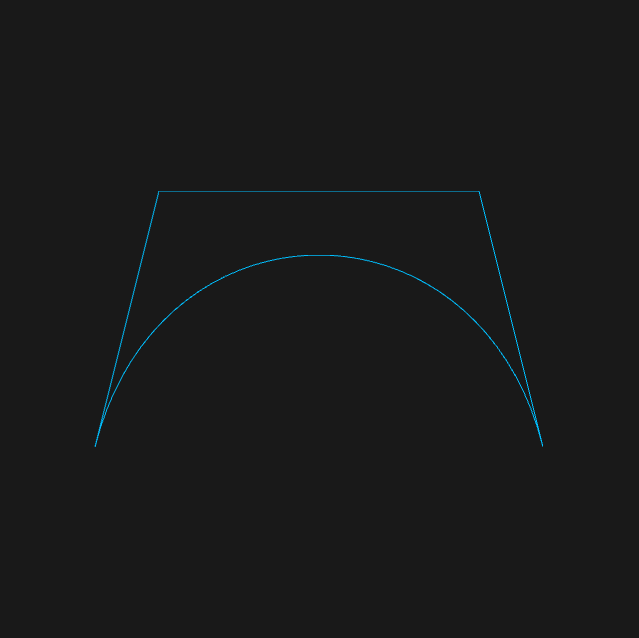
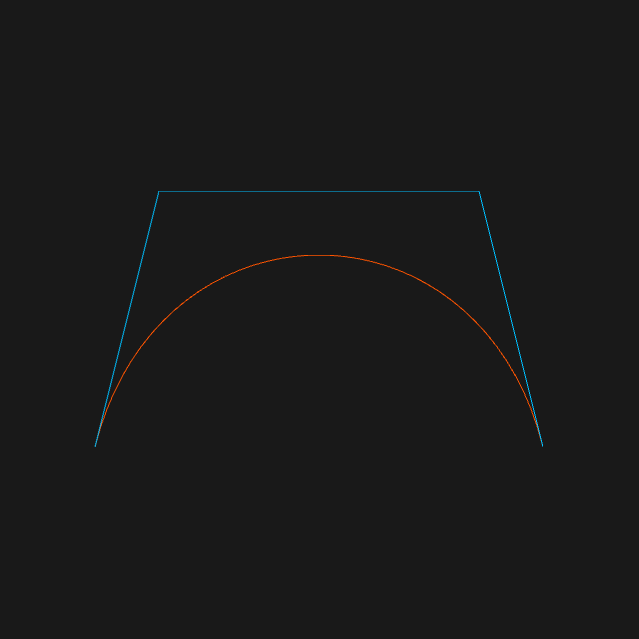
Putting the shader codes into external files. Added fragment colors as uniforms.

diff --git a/01-bezier/src/main.js b/01-bezier/src/main.js
@@ -43,7 +43,6 @@ window.addEventListener('load',function() {
     const bhandles = arr2f32arr( bezier );
 
     /*======= Creating a canvas =========*/
-
     var canvas = document.getElementById('my_canvas');
     var gl = canvas.getContext('webgl');
 
@@ -61,7 +60,7 @@ window.addEventListener('load',function() {
     }
     var handle_buffer = bufferData( bhandles );
     var segment_buffer = bufferData( segments );
-
+    // var color_buffer = bufferData( color );
 
     /*=================== Shaders ====================*/
     function compileShader( shaderCode, type ) {
@@ -115,14 +114,21 @@ window.addEventListener('load',function() {
     // Set the view port
     gl.viewport(0,0,canvas.width,canvas.height);
 
-    function drawLines( buffer, num_verts, mode ) {
+    // Get the attribute location
+    var coord = gl.getAttribLocation(program, "position");
+    // Enable the attribute
+    gl.enableVertexAttribArray(coord);
+    // at init time
+    var fColorLocation = gl.getUniformLocation(program, "uFragColor");
+
+    function drawLines( buffer, num_verts, color, mode ) {
 	gl.bindBuffer(gl.ARRAY_BUFFER, buffer);	
-	// Get the attribute location
-	var coord = gl.getAttribLocation(program, "position");
+	
 	// Point an attribute to the currently bound VBO
 	gl.vertexAttribPointer(coord, 3, gl.FLOAT, false, 0, 0);
-	// Enable the attribute
-	gl.enableVertexAttribArray(coord);
+	// Set color at render time
+	gl.uniform4f(fColorLocation, color[0], color[1], color[2], color[3] ); 
+	
 	gl.drawArrays(mode, 0, num_verts);
     }
 
@@ -142,8 +148,8 @@ window.addEventListener('load',function() {
 	currentRotation[1] = Math.cos(radians);
 	gl.uniform2fv(uRotationVector, currentRotation);
 
-	drawLines( handle_buffer, bhandles.length/3, gl.LINE_STRIP );
-	drawLines( segment_buffer, segments.length/3, gl.LINE_STRIP );
+	drawLines( handle_buffer, bhandles.length/3, [0.0, 0.75, 1.0, 1.0], gl.LINE_STRIP );
+	drawLines( segment_buffer, segments.length/3, [1.0, 0.33, 0.0, 1.0], gl.LINE_STRIP );
 	
 	// Draw the curve
 	//gl.drawArrays(gl.LINE_STRIP, 0, vertices.length/3);

diff --git a/01-bezier/vertex-shader.js b/01-bezier/vertex-shader.js
@@ -15,15 +15,5 @@ var vertCode = `
 	);
 
 	gl_Position = vec4(rotatedPosition, 0.0, 1.0);
-    }
-
-    vec4 toBezier(float delta, int i, vec4 P0, vec4 P1, vec4 P2, vec4 P3)
-    {
-	float t = delta * float(i);
-	float t2 = t * t;
-	float one_minus_t = 1.0 - t;
-	float one_minus_t2 = one_minus_t * one_minus_t;
-	return (P0 * one_minus_t2 * one_minus_t + P1 * 3.0 * t * one_minus_t2 + P2 * 3.0 * t2 * one_minus_t + P3 * t2 * t);
-    }
-    
+    }    
 `;

diff --git a/01-bezier/fragment-shader.js b/01-bezier/fragment-shader.js
@@ -2,7 +2,9 @@
 var fragCode = `
     precision highp float;
 
+    uniform vec4 uFragColor;
+
     void main(void) {
-	gl_FragColor = vec4(0.0,0.75,1.0,1.0);
+	gl_FragColor = uFragColor; // vec4(0.0,0.75,1.0,1.0);
     }
 `;
